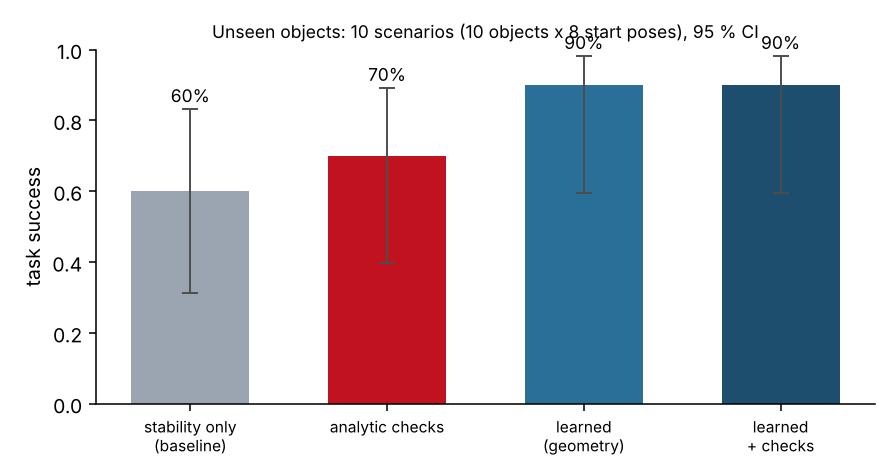
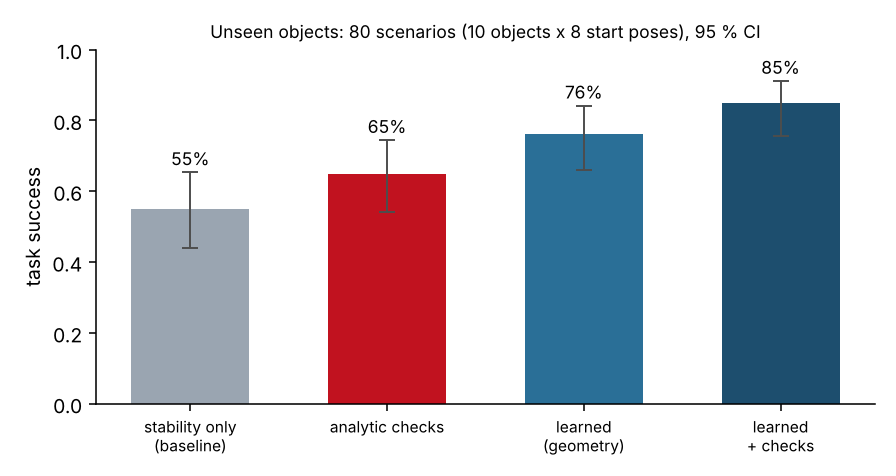
Learned scorer as a policy on unseen objects: 85 % vs 65 % (checks) vs 55 % (baseline); README week 2
- eval_learned_policy: time the ranking alone (the first run timed ranking + episode)
- README: dataset, model, offline and full-episode results, caveats, quickstart, layout, roadmap

Claude-Session: https://claude.ai/code/session_018n9sqndQo1kAvmaLx8LGsL

diff --git a/scripts/eval_learned_policy.py b/scripts/eval_learned_policy.py
@@ -62,8 +62,9 @@ def run(job):
     for name, (model, names, with_checks) in _get_models(clouds_path).items():
         t = time.perf_counter()
         ch = learned_choices(sc, model, names, with_checks)
+        select_ms = (time.perf_counter() - t) * 1e3          # ranking only, not the episode
         r = asdict(sc.run(name, ch))
-        r["select_ms"] = round((time.perf_counter() - t) * 1e3, 1)
+        r["select_ms"] = round(select_ms, 1)
         recs.append(r)
     return recs
 
